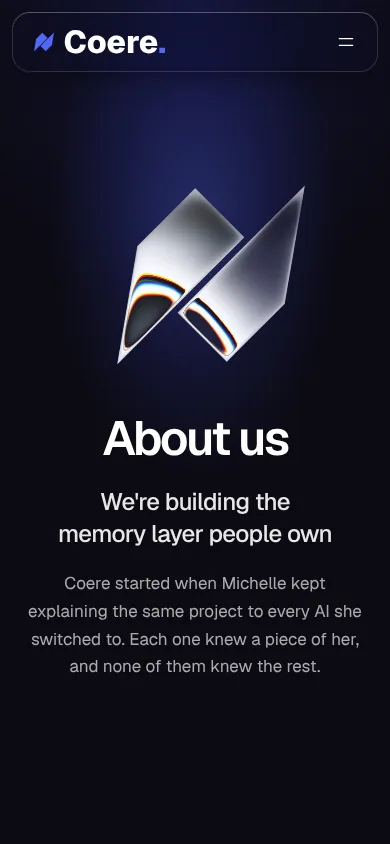
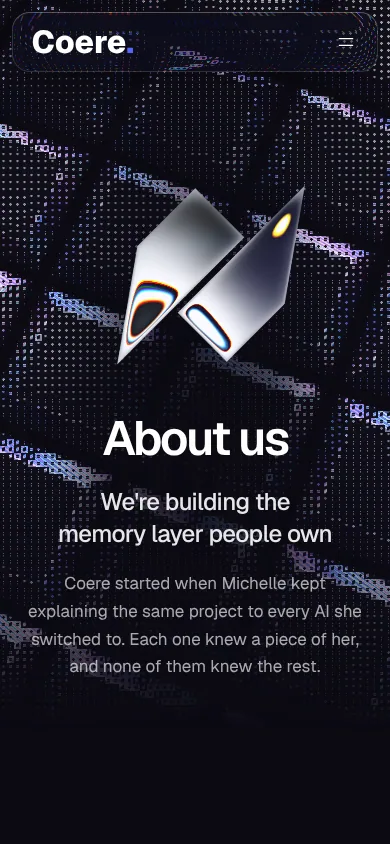
Retake the Agents and About pictures on their new backgrounds
Liquid Lines now runs behind the Agents hero and ASCII Tiles behind the About hero, so their README pictures and captions show them.

Claude-Session: https://claude.ai/code/session_01Ur6uqNCXa3ecJ23BnM9D9o

diff --git a/docs/screenshots/site/README.md b/docs/screenshots/site/README.md
@@ -28,7 +28,7 @@ The whole page: [home.webp](home.webp).
 | | |
 |---|---|
 | <img src="product-connect.webp" alt="The Coere Connect page from its hero down: Your memory, across every AI on Iridescence in Coere blue and white beside the live app, then features by tab, the same chat with 97.7% fewer tokens, everything in Coere Connect, why people choose it and the other products" /><br /><sub>Coere Connect</sub> | <img src="product-solutions.webp" alt="The Coere Solutions page from its hero down: the hero on a dark LED wall of AI logos drawn in small square pixels round the dashboard, with the beam washing over its top edge, how a team shares one memory, the AIs it works with, everything in Coere Solutions and the other products" /><br /><sub>Coere Solutions</sub> |
-| <img src="product-forge.webp" alt="The Coere Forge page from its hero down: The memory API for your apps and agents on a full field of blue and white ASCII glyphs over near black, with a beam of Coere blue landing on the code, then the demo end to end, MCP, everything in Coere Forge and the other products" /><br /><sub>Coere Forge</sub> | <img src="product-agents.webp" alt="The Coere Agents page from its hero down: One worker, infinite possibilities on near black beside the four agents on dark glass, then the capabilities, the agents as soft cards and the other products" /><br /><sub>Coere Agents</sub> |
+| <img src="product-forge.webp" alt="The Coere Forge page from its hero down: The memory API for your apps and agents on a full field of blue and white ASCII glyphs over near black, with a beam of Coere blue landing on the code, then the demo end to end, MCP, everything in Coere Forge and the other products" /><br /><sub>Coere Forge</sub> | <img src="product-agents.webp" alt="The Coere Agents page from its hero down: One worker, infinite possibilities on near black, with diagonal streaks of white light edged in Coere blue flowing behind the four agents on dark glass, then the capabilities, the agents as soft cards and the other products" /><br /><sub>Coere Agents</sub> |
 | <img src="phone-product-connect.webp" width="195" alt="The Coere Connect page's first screen at phone width, on its blue and white iridescence" /><br /><sub>Coere Connect at 390 wide</sub> | |
 
 ## Pricing
@@ -57,7 +57,7 @@ The whole page: [home.webp](home.webp).
 | | |
 |---|---|
 | <img src="resources.webp" alt="The developer docs' first page on white, with the list of pages on the left" /><br /><sub>The developer docs</sub> | <img src="resources-endpoints.webp" alt="The docs' Endpoints page, with each route and its parameters" /><br /><sub>One docs page: Endpoints</sub> |
-| <img src="about.webp" alt="The dark about page down to its team: the Coere mark in liquid chrome in a deep blue light over About us, then four steps from AI is fragmented to the memory is yours on glass panels" /><br /><sub>About, down to where the team starts</sub> | <img src="portable-ai-memory.webp" alt="The Portable AI memory guide, opening on white beside the app" /><br /><sub>A guide: Portable AI memory</sub> |
+| <img src="about.webp" alt="The dark about page down to its team: the Coere mark in liquid chrome over About us, on a floor of glass tiles drawn in small glyphs with iridescent blue and violet bevels, then four steps from AI is fragmented to the memory is yours on plain glass panels" /><br /><sub>About, down to where the team starts</sub> | <img src="portable-ai-memory.webp" alt="The Portable AI memory guide, opening on white beside the app" /><br /><sub>A guide: Portable AI memory</sub> |
 | <img src="privacy-top.webp" alt="The privacy policy: What Coere reads, keeps and sends, with the short version beside the list of its parts" /><br /><sub>The privacy policy, the short version first. <a href="privacy.webp">The whole policy</a></sub> | <img src="developer-waitlist.webp" alt="Give your app's users memory from day one on white, with a work email field, Join the waitlist and a TypeScript sample beside it" /><br /><sub>The developer waitlist</sub> |
 
 ## Blog and careers
@@ -66,7 +66,7 @@ The whole page: [home.webp](home.webp).
 |---|---|
 | <img src="blog.webp" alt="The blog: The Coere blog on the dark split hero with a few dim AI logos of the LED wall, Read the newest post, and Introducing Coere Connect as a large card with its cover of the Coere mark among the AI logos, then three more posts as large cards with category filters" /><br /><sub>The blog, the newest post as the dark hero's card</sub> | <img src="blog-post.webp" alt="The post Introducing Coere Connect: its title, dek and byline, a wide cover of the Coere mark among the AI logos, the reading column with bare share icons on the right, and Read next" /><br /><sub>A post: Introducing Coere Connect</sub> |
 | <img src="careers.webp" alt="Careers: Build the memory layer with us, the job board with its filters and an open role, and How we work" /><br /><sub>Careers, with the job board</sub> | <img src="phone-blog.webp" width="195" alt="The blog's first screen at phone width: the title, Read the newest post, and the newest post as a card on the dark hero" /><br /><sub>The blog at 390 wide</sub> |
-| <img src="phone-about.webp" width="195" alt="The dark about page's first screen at phone width: the chrome Coere mark over About us" /><br /><sub>About at 390 wide</sub> | |
+| <img src="phone-about.webp" width="195" alt="The dark about page's first screen at phone width: the chrome Coere mark over About us, on the glass tiles drawn in glyphs" /><br /><sub>About at 390 wide</sub> | |
 
 ## Coming soon
 
